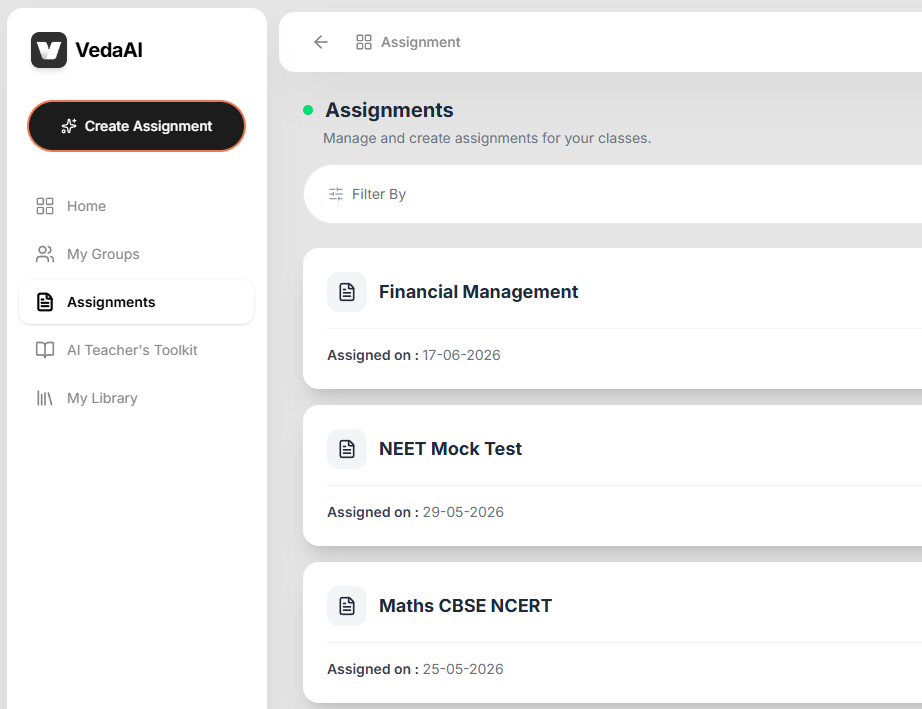
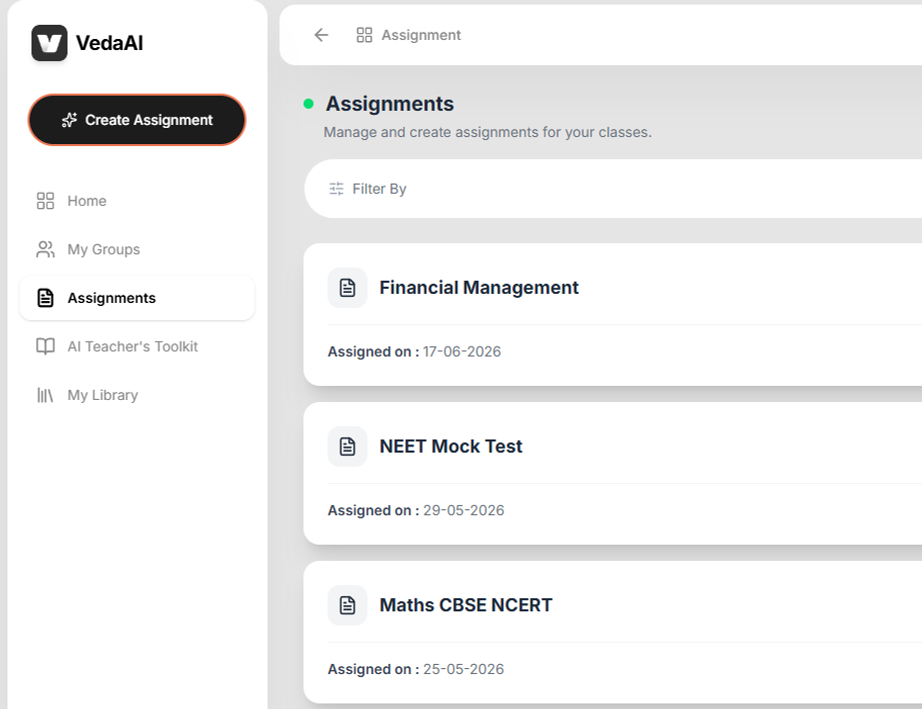
fix: polish responsive project previews

diff --git a/src/data/portfolio.ts b/src/data/portfolio.ts
@@ -9,7 +9,9 @@ export type Project = {
   imageAlt: string;
   mobileImage?: string;
   detailImage?: string;
+  mobileDetailImage?: string;
   detailImageAlt?: string;
+  mobileDetailImageAlt?: string;
   color: string;
   textColor: string;
   stack: string[];
@@ -30,6 +32,7 @@ export const projects: Project[] = [
     image: "/projects/savekaro.webp",
     imageAlt: "SaveKaro deal aggregation product interface",
     detailImage: "/projects/savekaro-detail-hq.png",
+    mobileDetailImage: "/projects/savekaro-detail-mobile-hq.png",
     detailImageAlt: "SaveKaro mobile deals home screen with search, featured deals, and cart",
     color: "#f2c84b",
     textColor: "#211b08",
@@ -99,7 +102,9 @@ export const projects: Project[] = [
     imageAlt: "VedaAI assignment workspace with generated question-paper cards",
     mobileImage: "/projects/vedaai-workspace-mobile-hq.png",
     detailImage: "/projects/vedaai-detail-hq.png",
+    mobileDetailImage: "/projects/vedaai-workspace-mobile-hq.png",
     detailImageAlt: "VedaAI generated question paper with exam details and student instructions",
+    mobileDetailImageAlt: "VedaAI assignment workspace with sidebar navigation and assignment cards",
     color: "#c9ff73",
     textColor: "#17220b",
     stack: ["Next.js", "Express", "BullMQ", "Redis", "PostgreSQL", "Gemini"],
@@ -145,6 +150,8 @@ export const projects: Project[] = [
       "A full-stack lead intelligence product that continuously monitors Reddit for high-intent conversations. Scheduled workers collect posts, Gemini scores them against an ideal customer profile, and the product turns qualified signals into enriched leads and personalized outreach.",
     image: "/projects/leadly.png",
     imageAlt: "Leadly workspace overview with monitoring and lead intelligence metrics",
+    detailImage: "/projects/leadly-detail-hq.png",
+    detailImageAlt: "Leadly workspace overview dashboard with sidebar navigation and lead metrics",
     color: "#d7a5aa",
     textColor: "#2f1419",
     stack: ["Next.js", "Express", "BullMQ", "Redis", "PostgreSQL", "Gemini"],

diff --git a/src/app/globals.css b/src/app/globals.css
@@ -1097,7 +1097,11 @@ button { font: inherit; }
 .modal-visual { padding: 22px; min-height: 0; }
 .modal-image { position: relative; width: 100%; height: 100%; min-height: 420px; overflow: hidden; border-radius: 12px; background: white; outline: 1px solid rgba(0, 0, 0, 0.1); outline-offset: -1px; }
 .modal-image[data-project-slug="veda-ai"] img,
-.modal-image[data-project-slug="savekaro"] img { object-fit: contain; object-position: center; }
+.modal-image[data-project-slug="savekaro"] img,
+.modal-image[data-project-slug="leadly-live"] img { object-fit: contain; object-position: center; }
+.modal-image[data-project-slug="leadly-live"] {
+  background: linear-gradient(90deg, #fdf4ee 0%, #f4e9e1 100%);
+}
 .modal-panel { min-width: 0; min-height: 0; display: flex; flex-direction: column; overflow: hidden; }
 .modal-tabs {
   flex: 0 0 58px;
@@ -1328,6 +1332,16 @@ button { font: inherit; }
   .modal-close { inset-block-start: 12px; inset-inline-end: 12px; }
   .modal-visual { padding: 12px; }
   .modal-image { min-height: 0; }
+  /* Let the mobile VedaAI preview fill its frame without contain letterboxing. */
+  .modal-image[data-project-slug="veda-ai"] img {
+    object-fit: cover;
+    object-position: left top;
+  }
+  /* The mobile SaveKaro crop is framed to the left so its nav stays visible. */
+  .modal-image[data-project-slug="savekaro"] img {
+    object-fit: cover;
+    object-position: left top;
+  }
   .modal-tabs { flex-basis: 52px; min-height: 52px; padding-inline: 18px 66px; gap: 22px; }
   .modal-content { padding: 34px 24px 48px; }
   .modal-content h2 { font-size: 38px; }

diff --git a/src/components/portfolio.tsx b/src/components/portfolio.tsx
@@ -618,13 +618,18 @@ function ProjectModal({ project, onClose }: { project: Project; onClose: () => v
             layoutId={`image-${project.slug}`}
             transition={{ layout: { duration: 0.28, ease: [0.77, 0, 0.175, 1] } }}
           >
-            <Image
-              src={project.detailImage ?? project.image}
-              alt={project.detailImageAlt ?? project.imageAlt}
-              fill
-              sizes="(max-width: 800px) 92vw, 45vw"
-              quality={100}
-            />
+            <picture>
+              {project.mobileDetailImage ? (
+                <source media="(max-width: 720px)" srcSet={project.mobileDetailImage} />
+              ) : null}
+              <Image
+                src={project.detailImage ?? project.image}
+                alt={project.mobileDetailImageAlt ?? project.detailImageAlt ?? project.imageAlt}
+                fill
+                sizes="(max-width: 800px) 92vw, 45vw"
+                quality={100}
+              />
+            </picture>
           </motion.div>
         </div>
         <div className="modal-panel">
